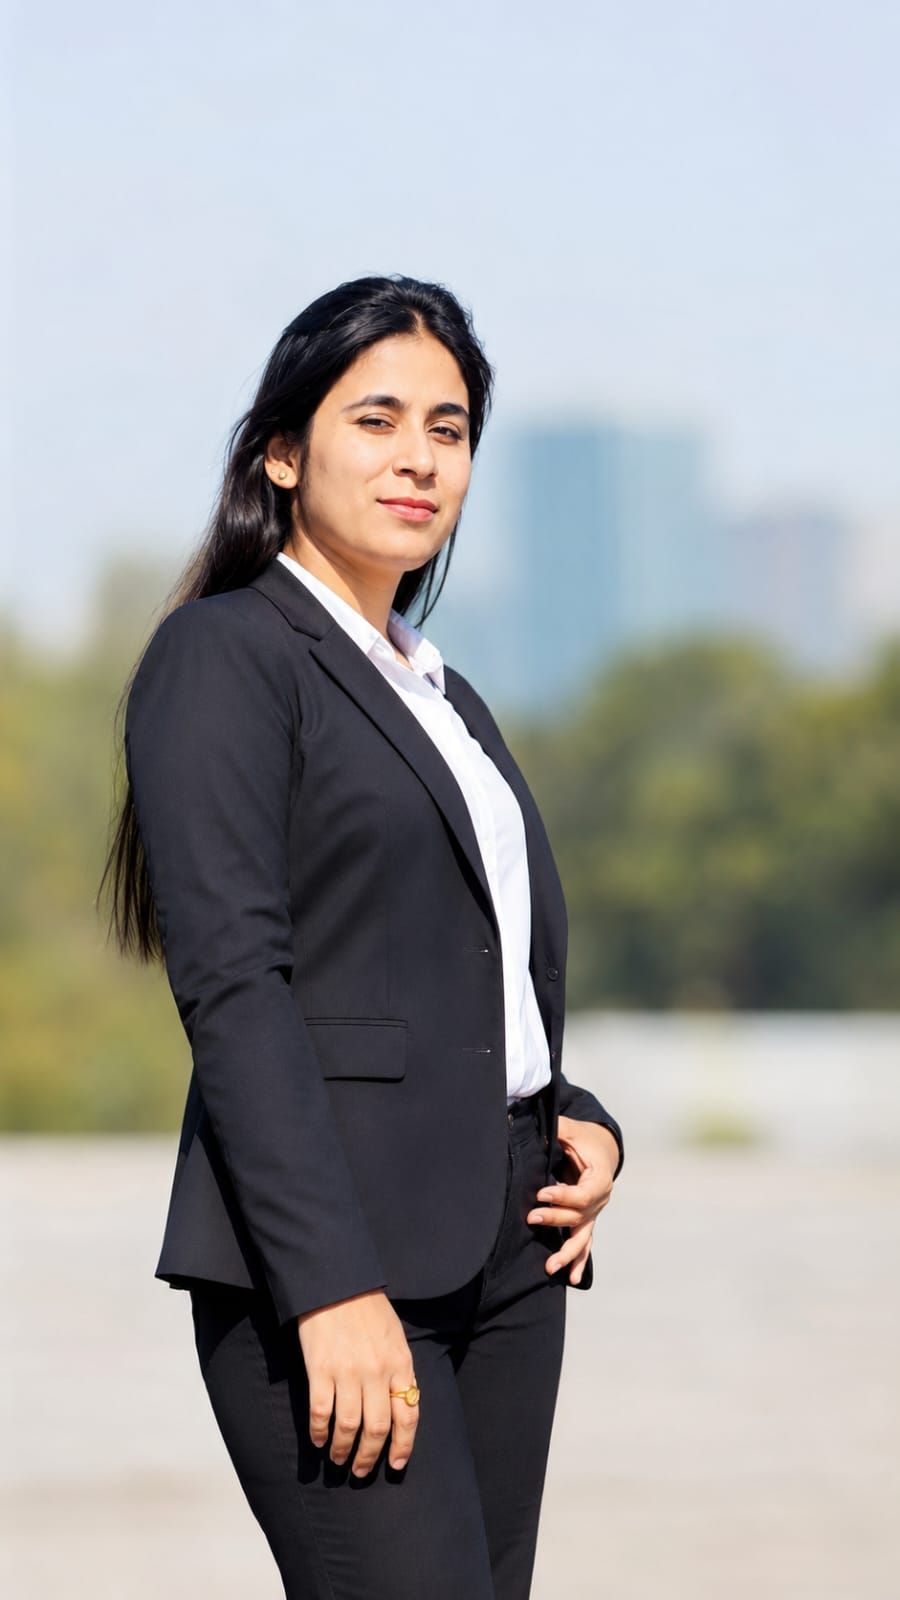
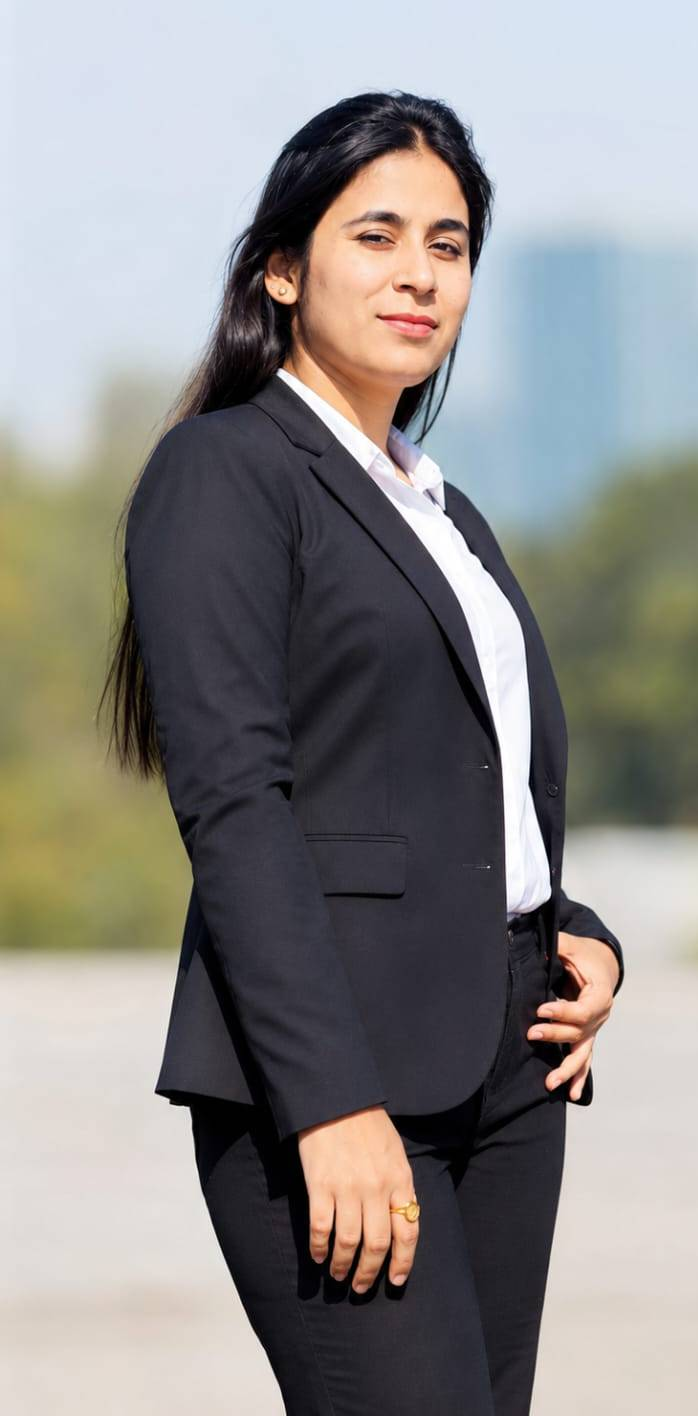
fix: center profile photo

diff --git a/components/hero.tsx b/components/hero.tsx
@@ -70,7 +70,7 @@ export function Hero() {
                   <div className="w-full h-full rounded-full bg-background flex items-center justify-center overflow-hidden">
                     {/* Profile placeholder with gradient */}
                     <div className="w-full h-full bg-gradient-to-br from-primary/20 via-secondary/10 to-accent/20 flex items-center justify-center">
-                      <img src="/profile.jpg" alt="Ayushi Thakur" className="w-full h-full object-cover object-center object-top rounded-full scale-110" /> 
+                      <img src="/profile.jpg" alt="Ayushi Thakur" className="w-full h-full object-cover rounded-full" />
                     </div>
                   </div>
                 </div>